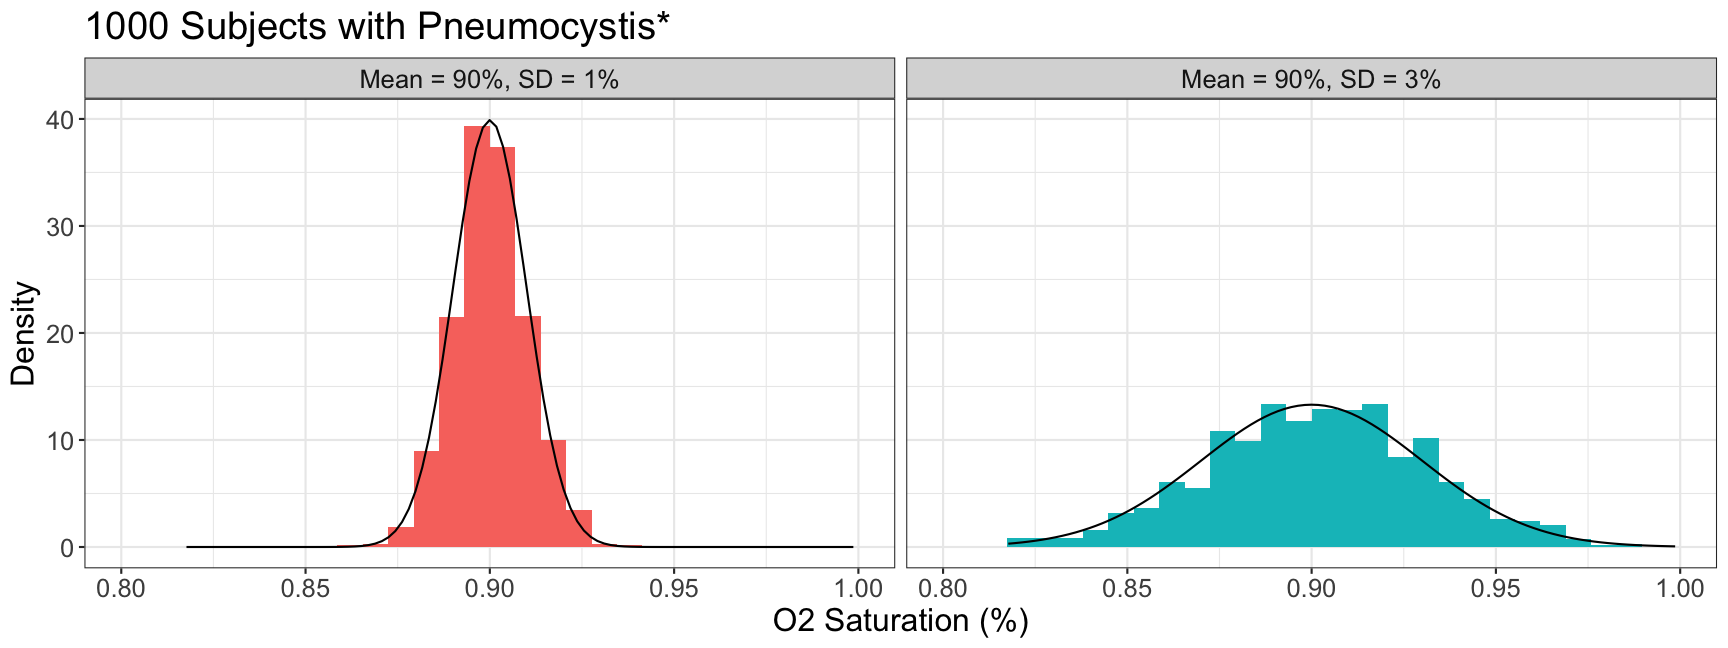
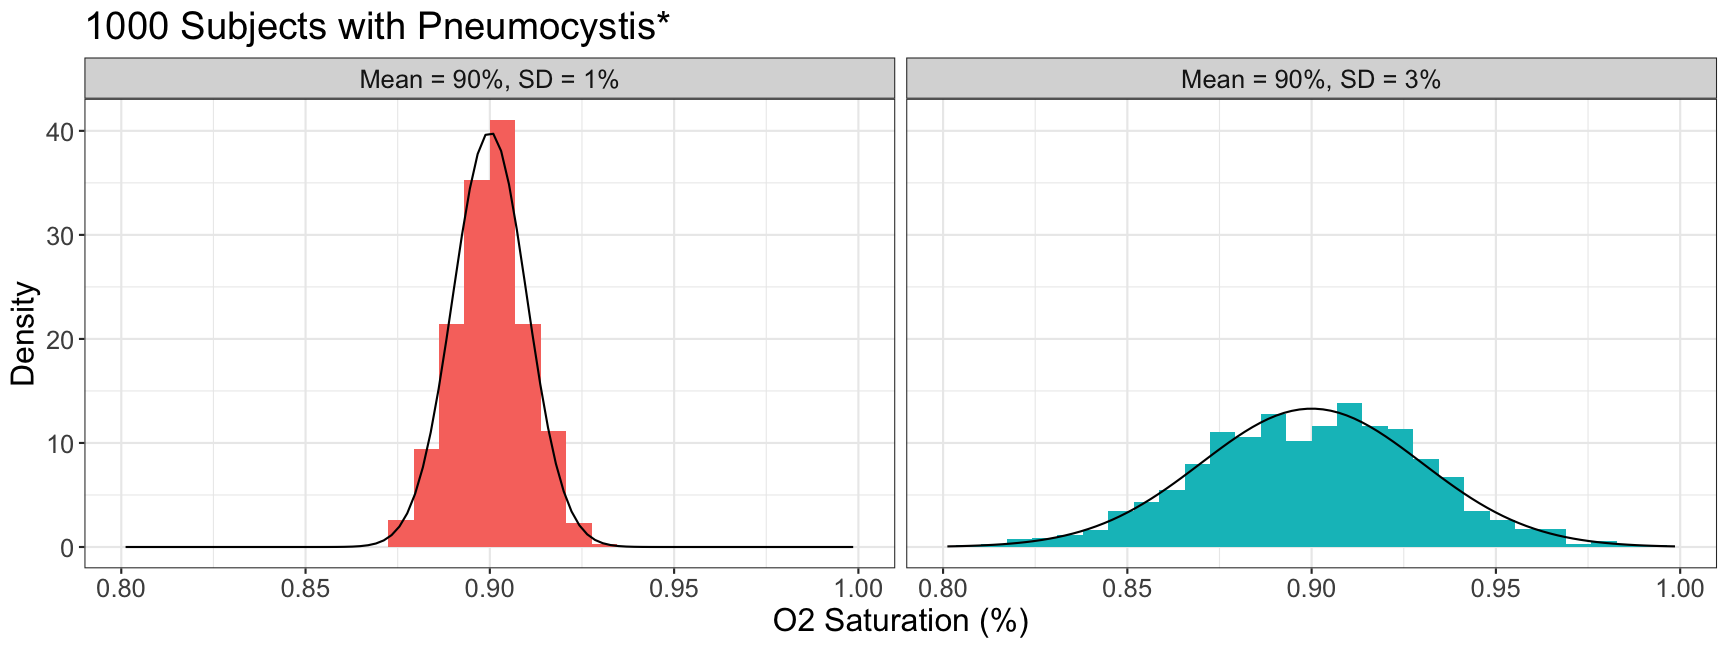
Added 2x2 table design using ggplot2.

diff --git a/measures_of_disease_in_epidemiology_2019_bjk.html b/measures_of_disease_in_epidemiology_2019_bjk.html
@@ -615,8 +615,8 @@ class: inverse, center, middle
 
 # Measuring True Risk versus Odds &lt;hr/&gt;
 
-<div id="htmlwidget-238d938d3ad28b268203" style="width:1152px;height:360px;" class="grViz html-widget"></div>
-<script type="application/json" data-for="htmlwidget-238d938d3ad28b268203">{"x":{"diagram":"digraph {\n\ngraph [layout = \"neato\",\n       outputorder = \"edgesfirst\",\n       bgcolor = \"white\"]\n\nnode [fontname = \"Helvetica\",\n      fontsize = \"10\",\n      shape = \"circle\",\n      fixedsize = \"true\",\n      width = \"0.5\",\n      style = \"filled\",\n      fillcolor = \"aliceblue\",\n      color = \"gray70\",\n      fontcolor = \"gray50\"]\n\nedge [fontname = \"Helvetica\",\n     fontsize = \"8\",\n     len = \"1.5\",\n     color = \"gray80\",\n     arrowsize = \"0.5\"]\n\n  \"1\" [label = \"Study\nDesign\", color = \"black\", fontsize = \"6\", fontcolor = \"black\", fillcolor = \"#E5E5E5\", pos = \"-3,0!\"] \n  \"2\" [label = \"Cohort\", color = \"black\", fontsize = \"6\", fontcolor = \"black\", fillcolor = \"#E5E5E5\", pos = \"-2,0!\"] \n  \"3\" [label = \"Randomized\nControlled\nTrial\", color = \"black\", fontsize = \"5.5\", fontcolor = \"black\", fillcolor = \"#E5E5E5\", pos = \"-2,1!\"] \n  \"4\" [label = \"Case-\nControl\", color = \"black\", fontsize = \"6\", fontcolor = \"black\", fillcolor = \"#E5E5E5\", pos = \"-2,-1!\"] \n  \"5\" [label = \"Denominator\nKnown\", color = \"black\", fontsize = \"6\", fontcolor = \"black\", fillcolor = \"#00FF00\", pos = \"-1,0.5!\"] \n  \"6\" [label = \"Denominator\nUnknown\", color = \"black\", fontsize = \"6\", fontcolor = \"black\", fillcolor = \"#1E90FF\", pos = \"-1,-0.5!\"] \n  \"7\" [label = \"Measure\nTrue\nRisk\", color = \"black\", fontsize = \"6\", fontcolor = \"black\", fillcolor = \"#E5E5E5\", pos = \"0,0.5!\"] \n  \"8\" [label = \"Measure\nOdds\", color = \"black\", fontsize = \"6\", fontcolor = \"black\", fillcolor = \"#E5E5E5\", pos = \"0,-0.5!\"] \n  \"9\" [label = \"Relative\nRisk\", color = \"black\", fontsize = \"6\", fontcolor = \"black\", fillcolor = \"#E5E5E5\", pos = \"1,0.5!\"] \n  \"10\" [label = \"Odds\nRatio\", color = \"black\", fontsize = \"6\", fontcolor = \"black\", fillcolor = \"#E5E5E5\", pos = \"1,-0.5!\"] \n  \"11\" [label = \"AR\nARR\nNNT\", color = \"black\", fontsize = \"6\", fontcolor = \"black\", fillcolor = \"#E5E5E5\", pos = \"2,0.5!\"] \n\"1\"->\"2\" [color = \"black\"] \n\"1\"->\"3\" [color = \"black\"] \n\"1\"->\"4\" [color = \"black\"] \n\"2\"->\"5\" [color = \"black\"] \n\"3\"->\"5\" [color = \"black\"] \n\"4\"->\"6\" [color = \"black\"] \n\"5\"->\"7\" [color = \"black\"] \n\"6\"->\"8\" [color = \"black\"] \n\"7\"->\"9\" [color = \"black\"] \n\"8\"->\"10\" [color = \"black\"] \n\"9\"->\"11\" [color = \"black\"] \n}","config":{"engine":"dot","options":null}},"evals":[],"jsHooks":[]}</script>
+<div id="htmlwidget-82bbc9ace911760d869d" style="width:1152px;height:360px;" class="grViz html-widget"></div>
+<script type="application/json" data-for="htmlwidget-82bbc9ace911760d869d">{"x":{"diagram":"digraph {\n\ngraph [layout = \"neato\",\n       outputorder = \"edgesfirst\",\n       bgcolor = \"white\"]\n\nnode [fontname = \"Helvetica\",\n      fontsize = \"10\",\n      shape = \"circle\",\n      fixedsize = \"true\",\n      width = \"0.5\",\n      style = \"filled\",\n      fillcolor = \"aliceblue\",\n      color = \"gray70\",\n      fontcolor = \"gray50\"]\n\nedge [fontname = \"Helvetica\",\n     fontsize = \"8\",\n     len = \"1.5\",\n     color = \"gray80\",\n     arrowsize = \"0.5\"]\n\n  \"1\" [label = \"Study\nDesign\", color = \"black\", fontsize = \"6\", fontcolor = \"black\", fillcolor = \"#E5E5E5\", pos = \"-3,0!\"] \n  \"2\" [label = \"Cohort\", color = \"black\", fontsize = \"6\", fontcolor = \"black\", fillcolor = \"#E5E5E5\", pos = \"-2,0!\"] \n  \"3\" [label = \"Randomized\nControlled\nTrial\", color = \"black\", fontsize = \"5.5\", fontcolor = \"black\", fillcolor = \"#E5E5E5\", pos = \"-2,1!\"] \n  \"4\" [label = \"Case-\nControl\", color = \"black\", fontsize = \"6\", fontcolor = \"black\", fillcolor = \"#E5E5E5\", pos = \"-2,-1!\"] \n  \"5\" [label = \"Denominator\nKnown\", color = \"black\", fontsize = \"6\", fontcolor = \"black\", fillcolor = \"#00FF00\", pos = \"-1,0.5!\"] \n  \"6\" [label = \"Denominator\nUnknown\", color = \"black\", fontsize = \"6\", fontcolor = \"black\", fillcolor = \"#1E90FF\", pos = \"-1,-0.5!\"] \n  \"7\" [label = \"Measure\nTrue\nRisk\", color = \"black\", fontsize = \"6\", fontcolor = \"black\", fillcolor = \"#E5E5E5\", pos = \"0,0.5!\"] \n  \"8\" [label = \"Measure\nOdds\", color = \"black\", fontsize = \"6\", fontcolor = \"black\", fillcolor = \"#E5E5E5\", pos = \"0,-0.5!\"] \n  \"9\" [label = \"Relative\nRisk\", color = \"black\", fontsize = \"6\", fontcolor = \"black\", fillcolor = \"#E5E5E5\", pos = \"1,0.5!\"] \n  \"10\" [label = \"Odds\nRatio\", color = \"black\", fontsize = \"6\", fontcolor = \"black\", fillcolor = \"#E5E5E5\", pos = \"1,-0.5!\"] \n  \"11\" [label = \"AR\nARR\nNNT\", color = \"black\", fontsize = \"6\", fontcolor = \"black\", fillcolor = \"#E5E5E5\", pos = \"2,0.5!\"] \n\"1\"->\"2\" [color = \"black\"] \n\"1\"->\"3\" [color = \"black\"] \n\"1\"->\"4\" [color = \"black\"] \n\"2\"->\"5\" [color = \"black\"] \n\"3\"->\"5\" [color = \"black\"] \n\"4\"->\"6\" [color = \"black\"] \n\"5\"->\"7\" [color = \"black\"] \n\"6\"->\"8\" [color = \"black\"] \n\"7\"->\"9\" [color = \"black\"] \n\"8\"->\"10\" [color = \"black\"] \n\"9\"->\"11\" [color = \"black\"] \n}","config":{"engine":"dot","options":null}},"evals":[],"jsHooks":[]}</script>
 
 
 ---
@@ -627,11 +627,11 @@ class: inverse, center, middle
 
 - Examine relationships between exposures and outcomes.
 
-- Caution!!!
+- __Caution!!!__
 
-    - you need to know whether study is trial/cohort vs case-control
-    - you can always calculate a relative risk (RR) from 2x2 table, but only appropriate for trial/cohort study
-    - you can always calculate an odds ratio (OR) from 2x2 table, but only appropriate for case-control study (can do better with RR if trial/cohort)
+    - need to know whether study is __RCT/cohort__ vs __case-control__&lt;br/&gt;&lt;br/&gt;
+    - can always calculate a __relative risk (RR)__ from 2x2 table but only appropriate for __RCT/cohort__&lt;br/&gt;&lt;br/&gt;
+    - can always calculate an __odds ratio (OR)__ from 2x2 table but only appropriate for __case-control study__&lt;br/&gt;(can do better with RR if RCT/cohort)
 
 ---
 
@@ -643,7 +643,12 @@ class: inverse, center, middle
 
 - Number Needed to Treat (NNT)= 1/ARR
 
-- ############## insert table
+&lt;img src="measures_of_disease_in_epidemiology_2019_bjk_files/figure-html/unnamed-chunk-2-1.png" width="360" style="display: block; margin: auto;" /&gt;
+
+---
+
+background-image: url(figs/twobytwo_summary.png)
+background-size: contain
 
 ---
 
